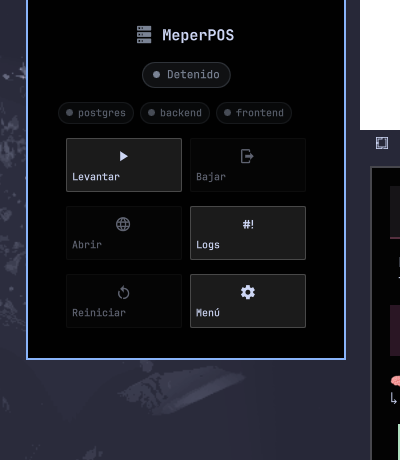
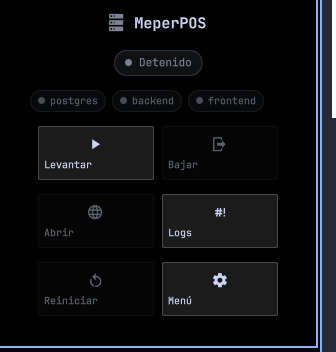
ci + docs: shellcheck, smoke test of a real stack, and the working GIF
- .github/workflows/ci.yml: shellcheck + bash -n + manifest/schema invariants
  (entry point exists, every schema key has a default), a real `demo up /
  --up / json / down` cycle on the runner, the bare-command path, and a JSONC
  check of the generated menu block.
- CONTRIBUTING.md: layout, one-minute try, config fields, how to test the
  plugin (including the two traps that cost us a widget: a QML load error drops
  it silently, and a duplicate property name refuses the whole file).
- README: plugin install path, settings UI, demo config, working GIF, CI badge.

diff --git a/README.md b/README.md
@@ -1,13 +1,22 @@
 # devstack — local dev stacks for the Omarchy bar
 
-One icon in the Omarchy bar (plus a menu section and a CLI) to lift, watch and
+[![CI](https://github.com/MeperDonas/omarchy-devstack/actions/workflows/ci.yml/badge.svg)](https://github.com/MeperDonas/omarchy-devstack/actions/workflows/ci.yml)
+
+One bar icon in the Omarchy bar (plus a menu section and a CLI) to lift, watch and
 drop the local stack of a project: docker services, dev servers, health checks
 and the browser, in order.
 
-Built for [Omarchy](https://omarchy.org/) (Hyprland + Quickshell). Nothing is
-hardcoded to one project: you declare each stack in a JSON file.
+It ships as an **Omarchy plugin** (`bar-widget`), so it installs with
+`omarchy plugin add`, updates with `omarchy plugin update` and is configured from
+the Omarchy settings UI. Nothing is hardcoded to one project: you declare each
+stack in a JSON file.
 
 ![The devstack popup on the Omarchy bar](docs/screenshot.png)
+
+While an action runs the icon breathes and the panel shows the dots plus a slow
+progress line, so you can see it is working instead of guessing:
+
+![The working animation](docs/working.gif)
 
 The icon is grey when the stack is off, red on error, yellow while lifting and
 green when every service answers.
@@ -39,37 +48,45 @@ green when every service answers.
 
 ## Requirements
 
-- Omarchy (the bar widget uses the Quickshell bar API). The CLI also works on
-  plain Hyprland/Arch, minus the bar module.
-- `jq`, `curl`, `ss` (iproute2) — `docker` only if you declare docker services.
+- Omarchy with plugin support (the bar widget is a `bar-widget` plugin). The CLI
+  alone also runs on plain Arch/Hyprland: bash, `jq`, `curl`, `ss` (iproute2).
+- `docker` only if you declare docker services.
 - For docker without the `docker` group: `polkit` (the Omarchy dialog asks for
   the password) and/or `sudo`.
 
 ## Install
 
 ```bash
-git clone https://github.com/<you>/omarchy-devstack.git
+git clone https://github.com/MeperDonas/omarchy-devstack.git
 cd omarchy-devstack
 
-# script + bar module + config + bar entry + menu section
+# plugin + CLI + config + bar entry + Omarchy menu section, in one go
 ./install.sh --project myproject --config config/example.json --menu
-
 omarchy restart shell
 ```
 
-`install.sh` is idempotent, only replaces its own entries, and backs up every
-file it edits (`~/.config/omarchy/shell.json.bak.<stamp>` and the same for the
-menu). Flags:
+Or do it by hand:
 
-| Flag | What it does |
-|---|---|
-| `--project NAME` | registers the bar widget for that project |
-| `--config FILE` | copies a config into `~/.config/devstack/` |
-| `--menu` | appends/refreshes the Dev section of the Omarchy menu |
-| `--dry-run` | prints what it would do |
+```bash
+omarchy plugin add https://github.com/MeperDonas/omarchy-devstack --enable
+install -m755 bin/devstack ~/.local/bin/devstack
+mkdir -p ~/.config/devstack && cp config/example.json ~/.config/devstack/myproject.json
+```
 
-To uninstall: `./uninstall.sh` (removes the script, the module, its bar entry,
-its menu block and its configs; keeps your docker volumes).
+`install.sh` is idempotent, updates the plugin when it is already installed, never
+overwrites an existing config, and leaves a backup of every file it edits.
+Flags: `--project NAME`, `--config FILE` (repeatable), `--menu`,
+`--section left|center|right`, `--no-enable`, `--dry-run`.
+
+Uninstall with `./uninstall.sh` (add `--keep-config` to keep your stacks).
+
+## Try it in one minute (no docker, no node)
+
+```bash
+DEVDATA_CONFIG="$PWD/config" DEVDATA_PROJECT=demo bin/devstack demo up
+```
+
+`config/demo.json` is a single `python3 -m http.server` on `:8080`.
 
 ## Configure a stack
 
@@ -135,21 +152,24 @@ devstack <p> --running | --up | --foreign   # guards for the menu
 
 ## Several projects on the bar
 
-One widget instance per project, each with its own `project` key:
+`allowMultiple` is on, so you can run one widget instance per project. Add the
+widget again from the Omarchy settings UI (or `omarchy plugin enable
+meperdonas.devstack --section right`) and give each instance its `project` in
+`~/.config/omarchy/shell.json`:
 
 ```json
-{ "id": "devstack", "type": "qml",
-  "source": "~/.config/omarchy/bar/modules/devstack.qml", "project": "meperpos" }
+{ "id": "meperdonas.devstack", "project": "meperpos" },
+{ "id": "meperdonas.devstack", "project": "other-app" }
 ```
 
-Add a second one with a different `id` and `project`, then
-`omarchy restart shell`.
+The widget also reads the project the CLI resolved, so a single instance with no
+`project` set follows whichever project is the default.
 
 ## How it is wired
 
 ```mermaid
 graph LR
-  W["bar: devstack.qml<br/>(poll 5 s)"] -- "devstack json" --> S["~/.local/bin/devstack"]
+  W["bar plugin<br/>meperdonas.devstack<br/>(poll 5 s)"] -- "devstack json" --> S["~/.local/bin/devstack"]
   M["Omarchy menu<br/>(dev.* rows)"] -- "bash -lc" --> S
   T["terminal"] --> S
   S --> PG[("docker compose")]
@@ -181,10 +201,16 @@ desarrollo, health checks y el navegador, en orden.
 **Instalar.**
 
 ```bash
-git clone https://github.com/<vos>/omarchy-devstack.git && cd omarchy-devstack
+git clone https://github.com/MeperDonas/omarchy-devstack.git && cd omarchy-devstack
 ./install.sh --project miproyecto --config config/example.json --menu
 omarchy restart shell
 ```
+
+Es un **plugin de Omarchy** (`bar-widget`): se instala con `omarchy plugin add`,
+se actualiza con `omarchy plugin update` y se configura desde los ajustes de
+Omarchy. Para probarlo sin docker ni node: `DEVDATA_CONFIG="$PWD/config"
+DEVDATA_PROJECT=demo bin/devstack demo up` (levanta un `python3 -m http.server`).
+Desinstalar: `./uninstall.sh`.
 
 **Configurar.** Un JSON por proyecto en `~/.config/devstack/<nombre>.json`
 (nombre, directorio y `services` con `id`, `label`, `type` (`process`/`docker`),

diff --git a/CONTRIBUTING.md b/CONTRIBUTING.md
@@ -1,0 +1,95 @@
+# Contributing
+
+Thanks for looking. This is a small tool: a bash CLI that owns the state, an
+Omarchy bar widget that reads it, and an installer that wires both. Keep it that
+way — the CLI is the single source of truth, the widget never touches docker or
+sudo by itself.
+
+## Layout
+
+| Path | What it is |
+|---|---|
+| `bin/devstack` | the CLI. All logic lives here: service order, waits, health checks, pidfiles, docker elevation, notifications, `--force` take-over, `menu` block generation |
+| `Panel.qml` | the bar widget (an Omarchy `bar-widget` plugin). Reads `devstack json`, renders the four-colour state, one chip per service and the action buttons |
+| `manifest.json` | the plugin manifest: id, entry point, and the settings schema (project, command, intervals, colours) |
+| `install.sh` / `uninstall.sh` | plugin lifecycle + CLI + config + Omarchy menu block |
+| `config/*.json` | example stacks. `demo.json` needs nothing but python3 |
+| `docs/` | screenshot and the working-state GIF used by the README |
+
+## Try it in one minute
+
+```bash
+export DEVDATA_CONFIG="$PWD/config"      # use the repo configs, not ~/.config
+export DEVDATA_PROJECT=demo
+bin/devstack demo up        # starts a python http.server on :8080
+bin/devstack demo status
+bin/devstack demo json | jq
+bin/devstack demo down
+```
+
+No docker, no node, no Omarchy needed for that path: the CLI only requires bash,
+`jq`, `curl` and `ss` (iproute2), and the Omarchy-specific bits
+(`omarchy-launch-browser`, `omarchy-sudo-docker`, `notify-send`) are optional
+and detected at runtime.
+
+## Add a project config
+
+Copy `config/example.json` to `~/.config/devstack/<name>.json` and describe the
+services in start order:
+
+- `type: "docker"` → `compose` (file, relative to `dir`) + `container` + `port`.
+  Brought down last, `--keep-docker` leaves it.
+- `type: "process"` (default) → `dir` + `cmd` + `port` + `health`. Started with
+  `setsid` so `down` can kill the whole process group.
+- `health` is what turns the state green and what `report_ready` checks before
+  opening the browser. `open: true` marks the service the browser button opens.
+- `tasks[]` are extra commands (`seed`, `migrate`, …) with `needs: ["db"]` to
+  lift dependencies first.
+
+## Testing the widget
+
+The widget is a plugin folder, so the shell validates it for you:
+
+```bash
+omarchy plugin validate .                 # manifest schema + entry point exists
+omarchy plugin add "$PWD" --yes          # install from a local clone
+omarchy plugin enable meperdonas.devstack --section right
+omarchy restart shell
+omarchy plugin list                      # should say: enabled  third-party bar-widget
+journalctl --user _PID=$(pgrep -x omarchy-shell) | grep "Plugin widget"
+```
+
+Two rules learned the hard way:
+
+- A QML file that fails to load makes the shell log `Plugin widget <id> failed:
+  …` and **drop the widget silently**. Always grep the journal after touching
+  `Panel.qml`.
+- Do not redeclare a property the `Panel` base already has (`bar`, `moduleName`,
+  `settings`, `ipcTarget`), and do not declare the same property twice — QML
+  refuses the whole file with `Duplicate property name`.
+
+To screenshot the popup without clicking it, temporarily replace
+`Component.onCompleted: refresh()` with `Component.onCompleted: { refresh(); open() }`
+in the installed copy, `omarchy restart shell`, capture, then
+`git -C ~/.config/omarchy/plugins/meperdonas.devstack reset --hard HEAD`.
+
+## Code style
+
+- bash: `set -euo pipefail`, quoting everywhere, no `cd` without a subshell,
+  comments that explain *why* (the ordering rules, the `set -e` traps, the
+  process-group guard). Every command substitution that can fail either gets
+  `|| true` or is used in a condition — a failing `ps`/`grep` under `set -e`
+  aborts the whole script silently.
+- QML: 2-space indent, `readonly property` for derived state, settings through
+  `setting("key", fallback)`, no animating anything that is not in the working
+  state.
+- Colours come from the manifest defaults (`colorOff`, `colorError`,
+  `colorWorking`, `colorOk`) so users can restyle without editing QML.
+
+## Commits and releases
+
+- One logical change per commit, imperative subject, body explaining the *why*.
+- Update `README.md` when behaviour changes; keep the English section and the
+  Spanish section in sync.
+- Bump `version` in `manifest.json` for anything users will pull with
+  `omarchy plugin update`.
